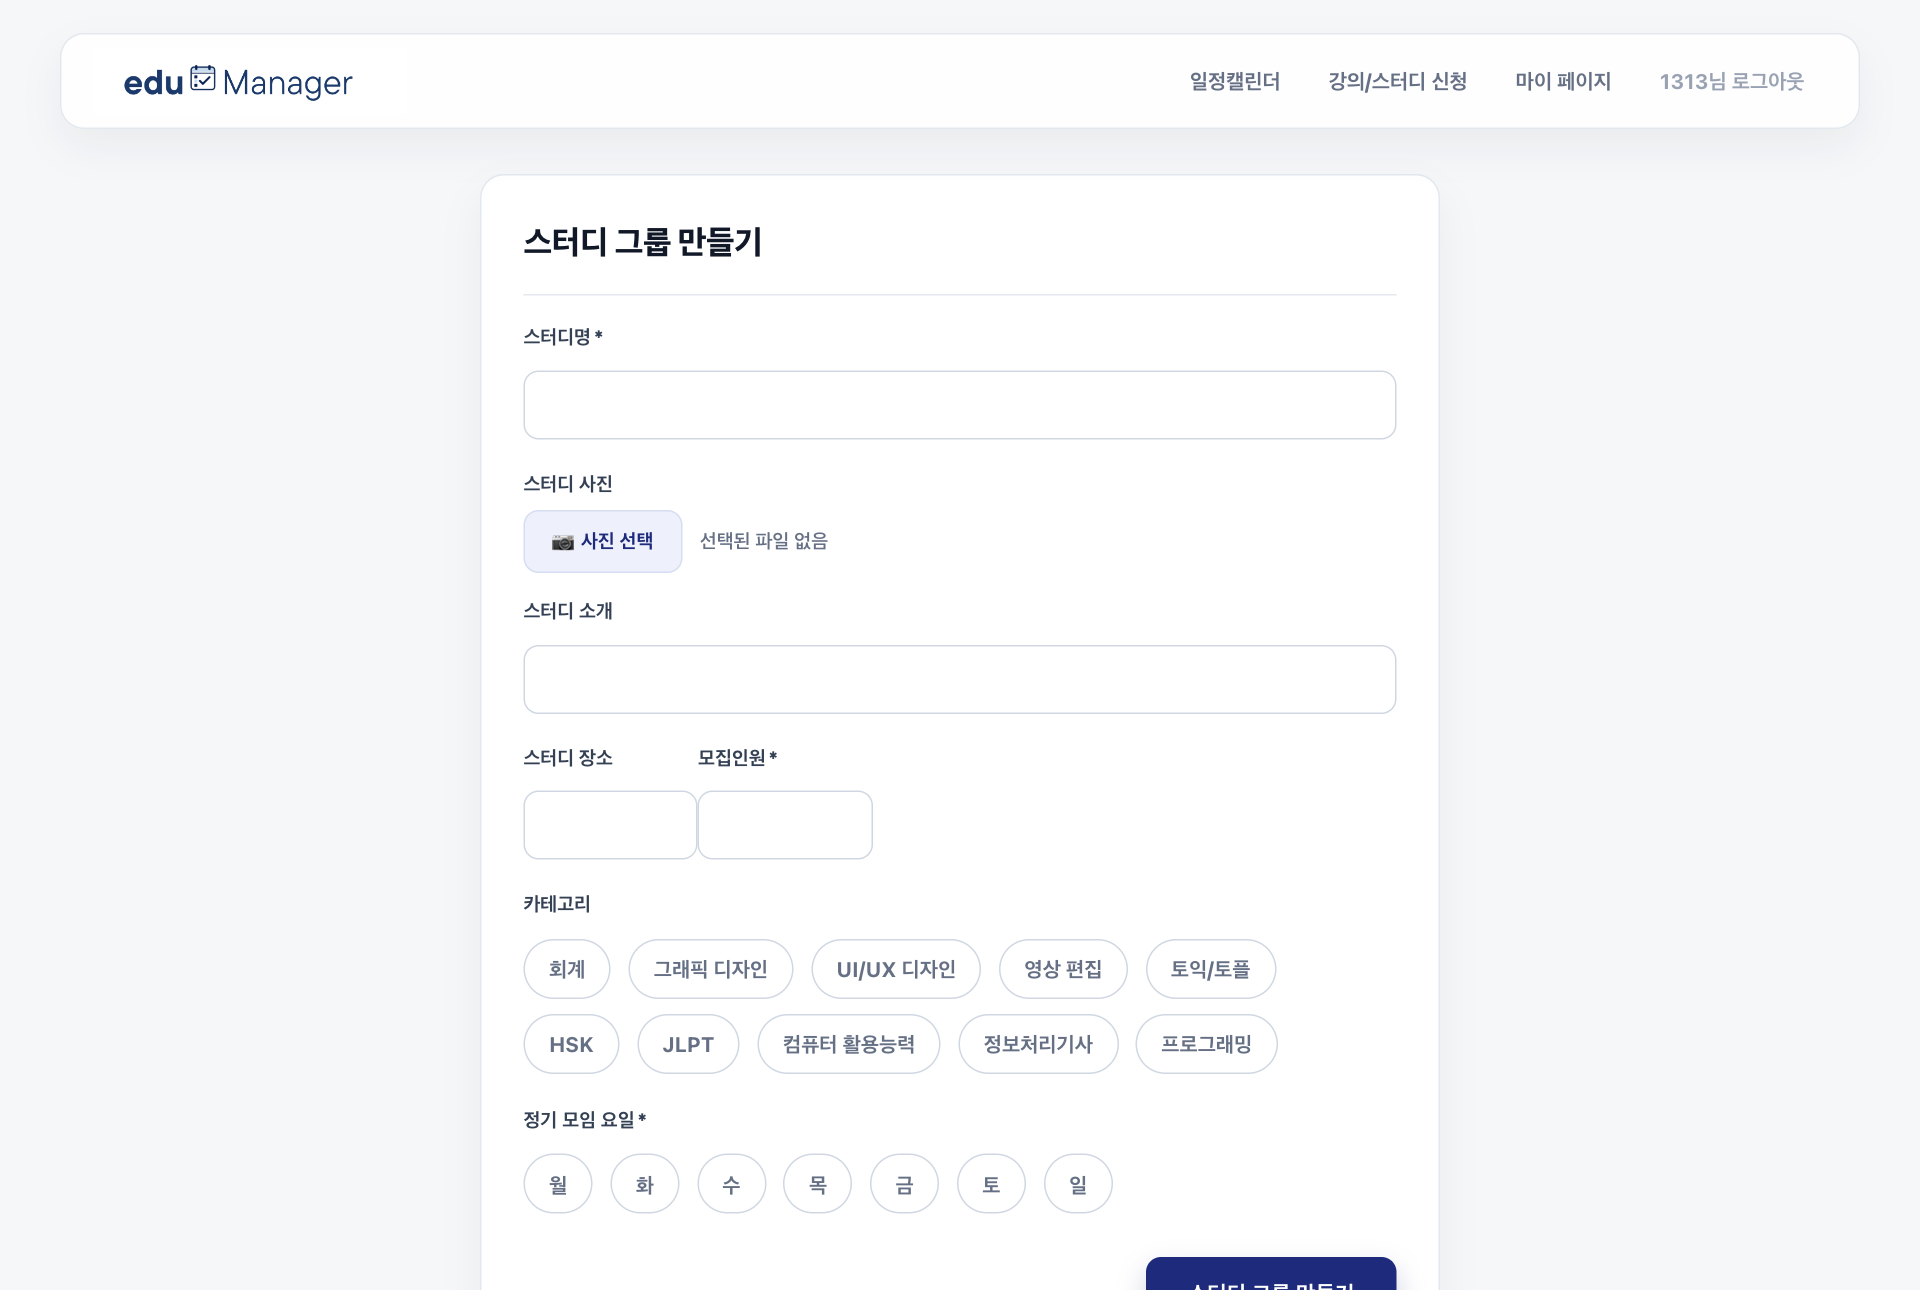
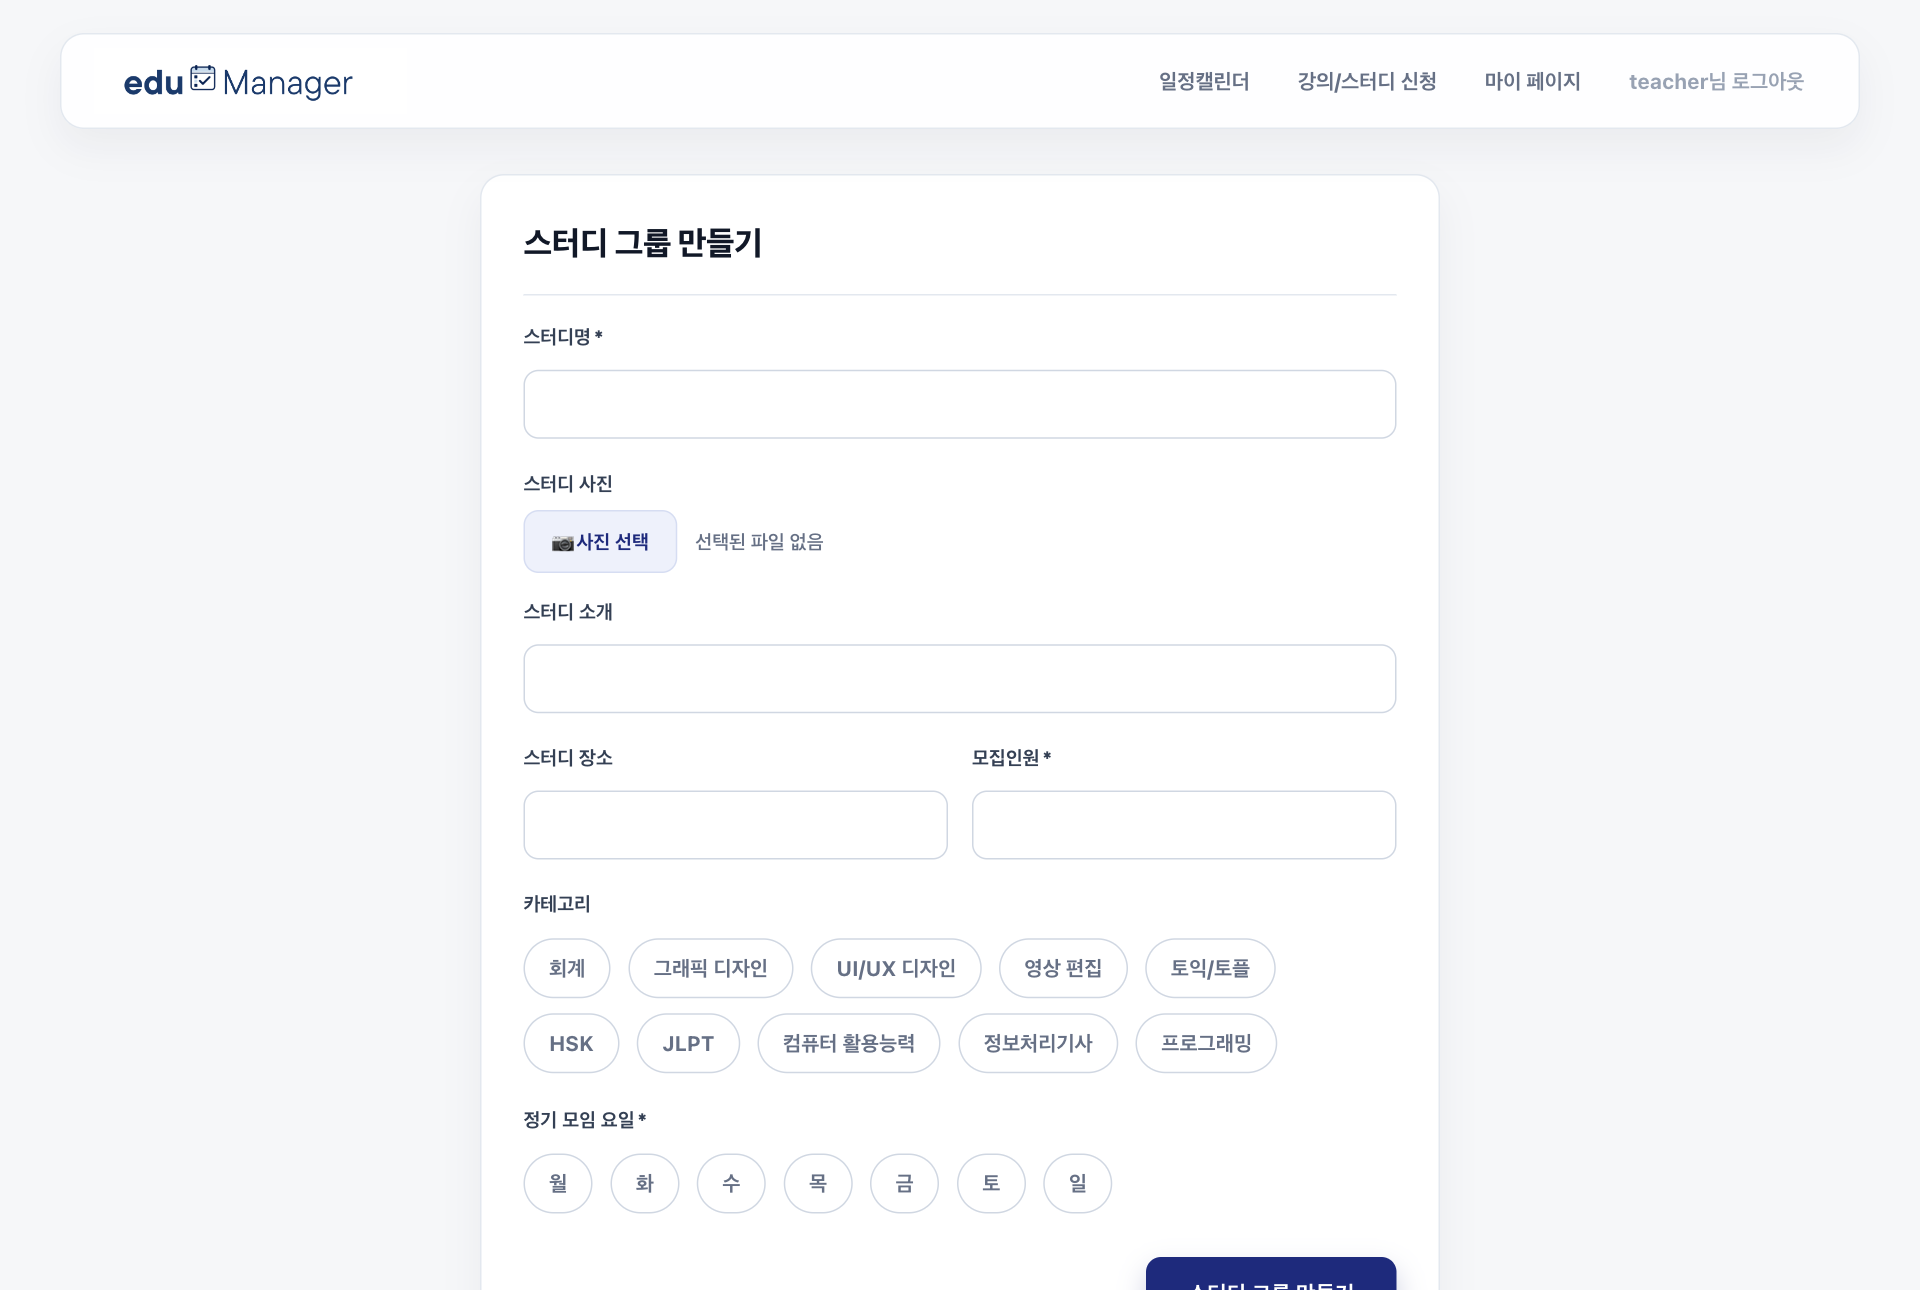
docs: 강사/학생 계정 기준 스크린샷 갱신 + 스터디 상세 추가

diff --git a/README.md b/README.md
@@ -120,9 +120,16 @@ EduManager는 **역할(학생 · 강사) 기반**의 교육 관리 웹 서비스
 
 ## 스터디 그룹
 
-<div align="center">
-  <img src="./docs/study-create.png" alt="스터디 개설" width="620"/>
-</div>
+<table>
+  <tr>
+    <th width="50%">스터디 개설</th>
+    <th width="50%">스터디 상세 · 가입</th>
+  </tr>
+  <tr>
+    <td><img src="./docs/study-create.png" alt="스터디 개설" width="100%"/></td>
+    <td><img src="./docs/study-detail.png" alt="스터디 상세" width="100%"/></td>
+  </tr>
+</table>
 
 - 스터디 **개설·수정**, 모집 인원과 정기 모임 요일 설정
 - **가입 신청 → 리더의 수락 / 거절** 흐름
